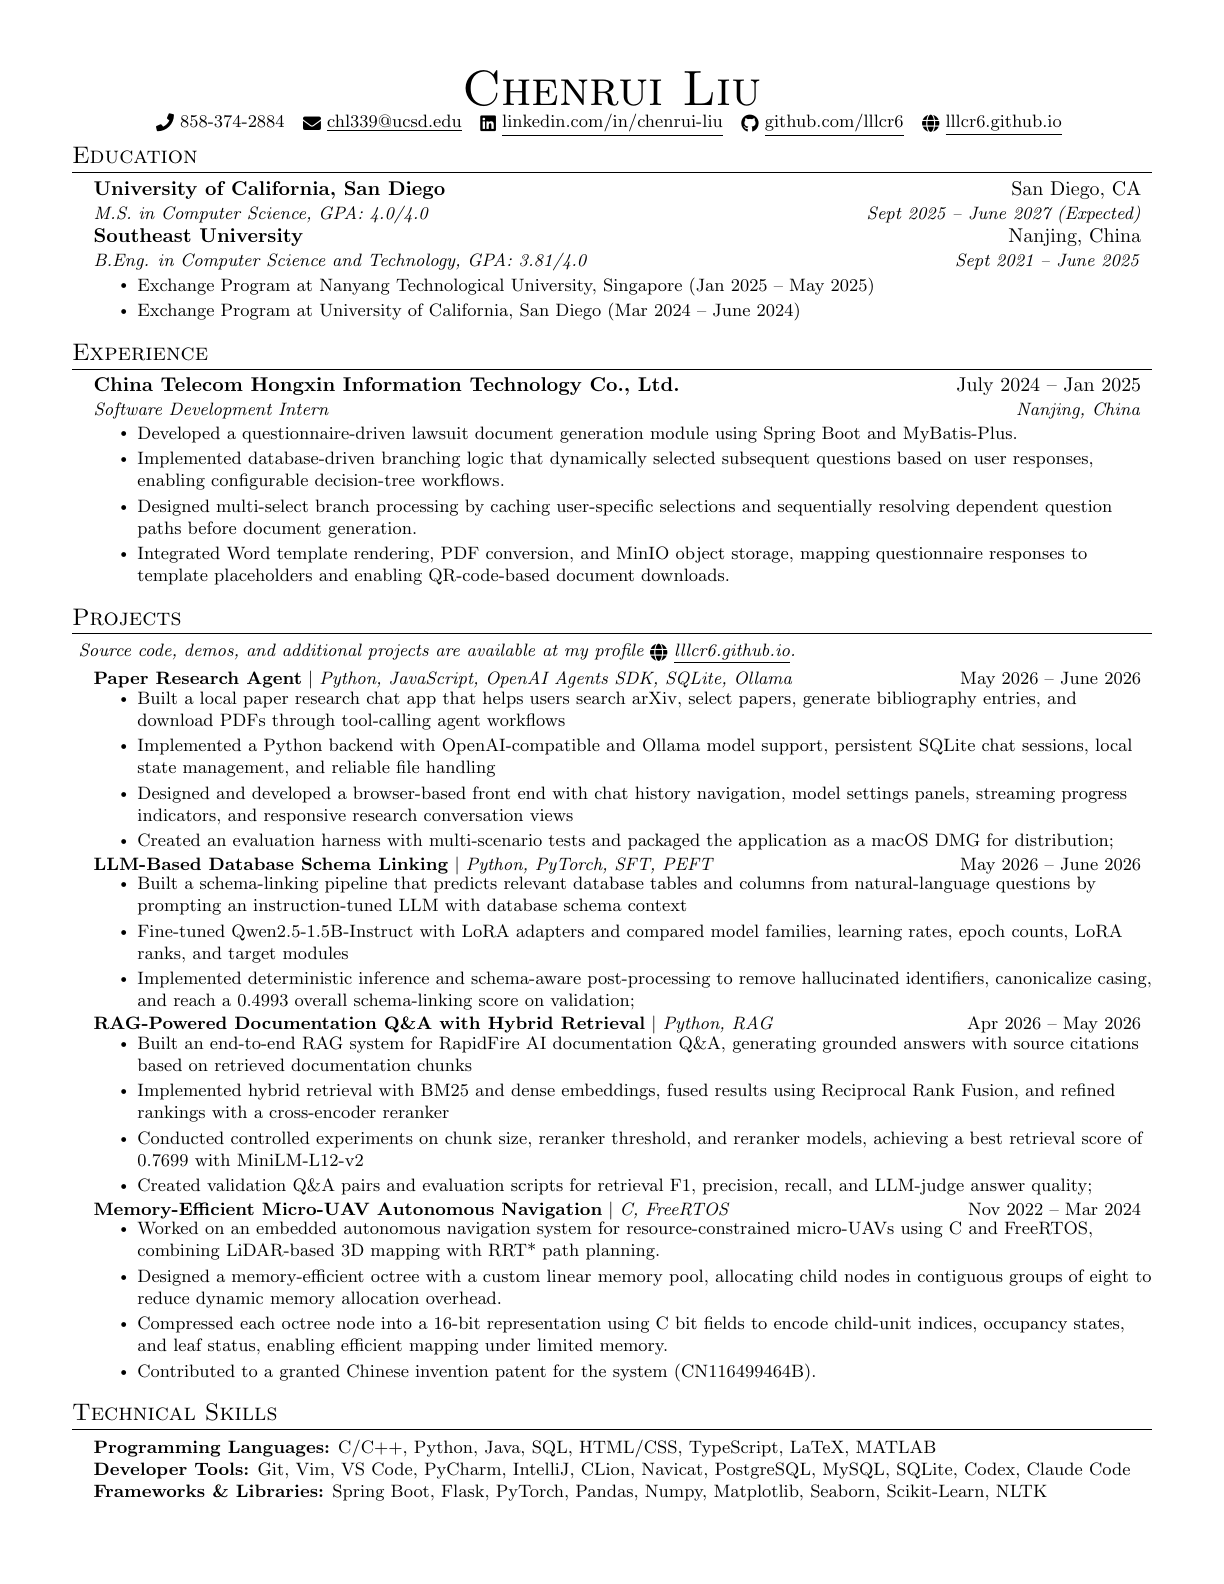
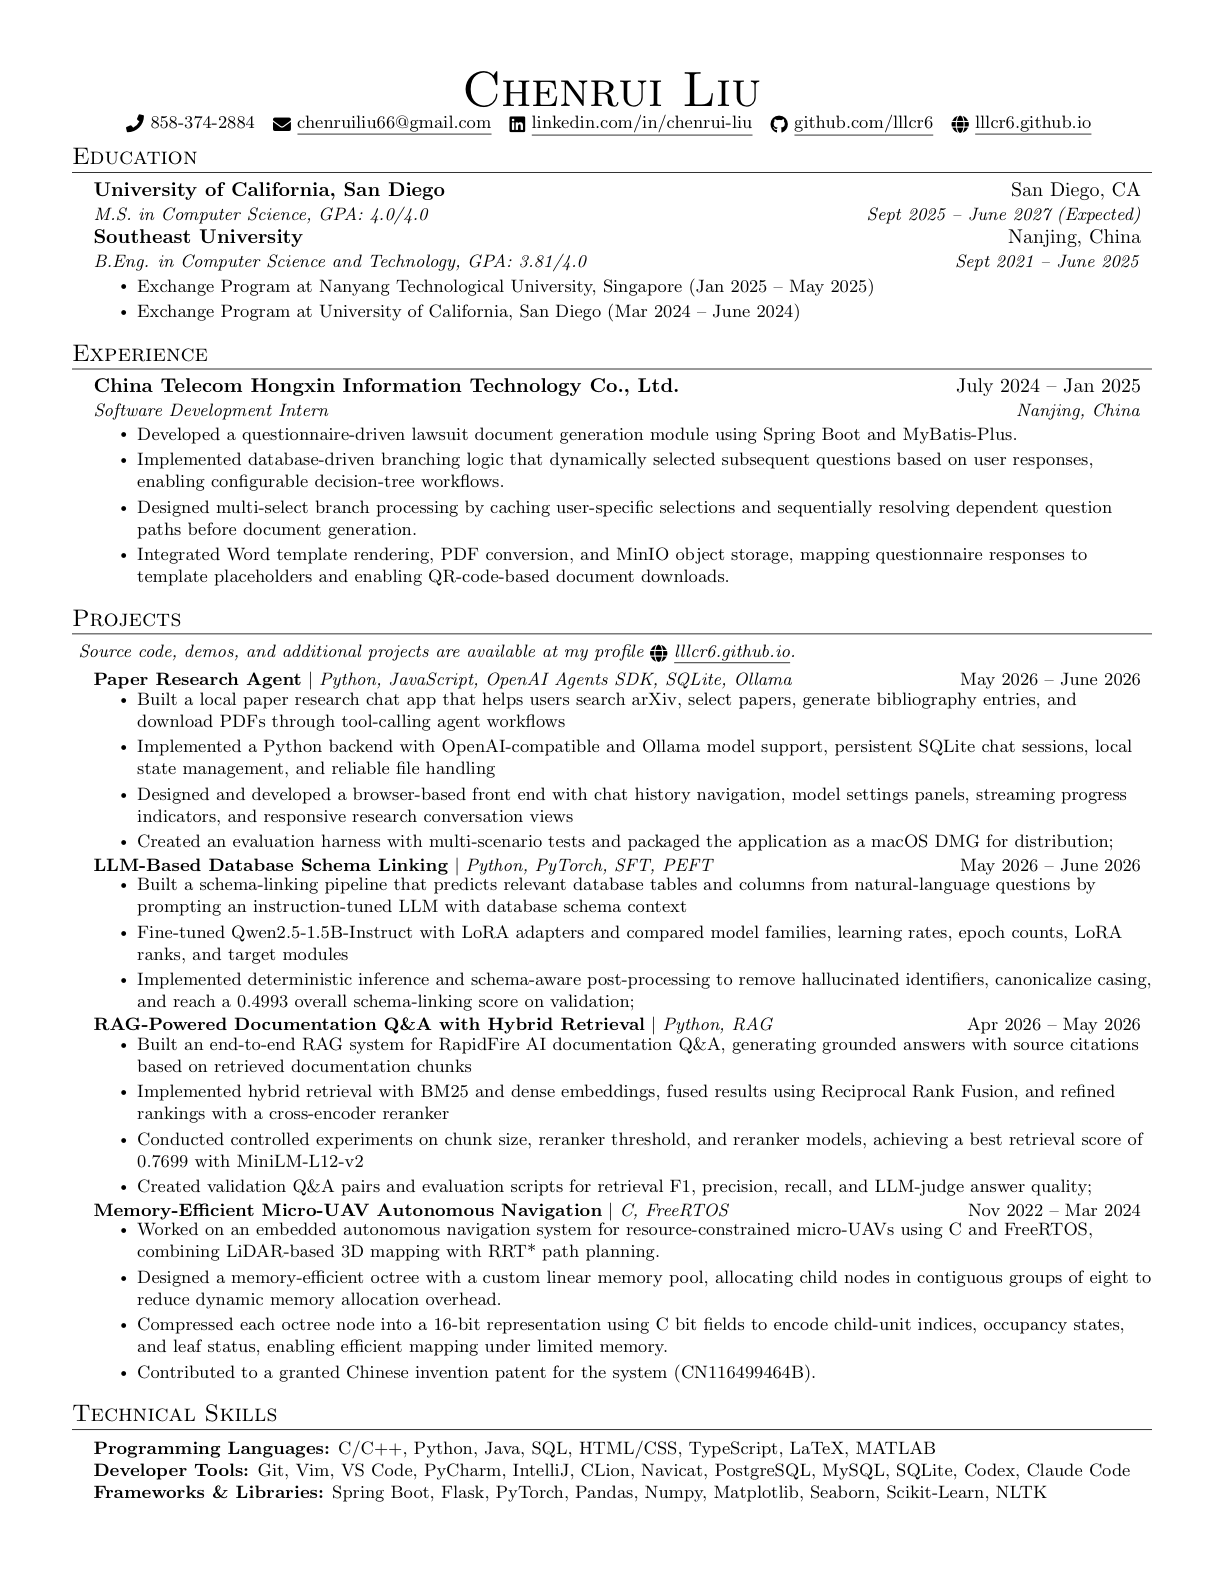
Update resume and project tags

diff --git a/index.html b/index.html
@@ -262,6 +262,7 @@
             <div class="tag-row">
               <span>TypeScript</span>
               <span>Agile</span>
+              <span>Branch Management</span>
               <span>CI/CD</span>
               <span>Team Project</span>
             </div>
